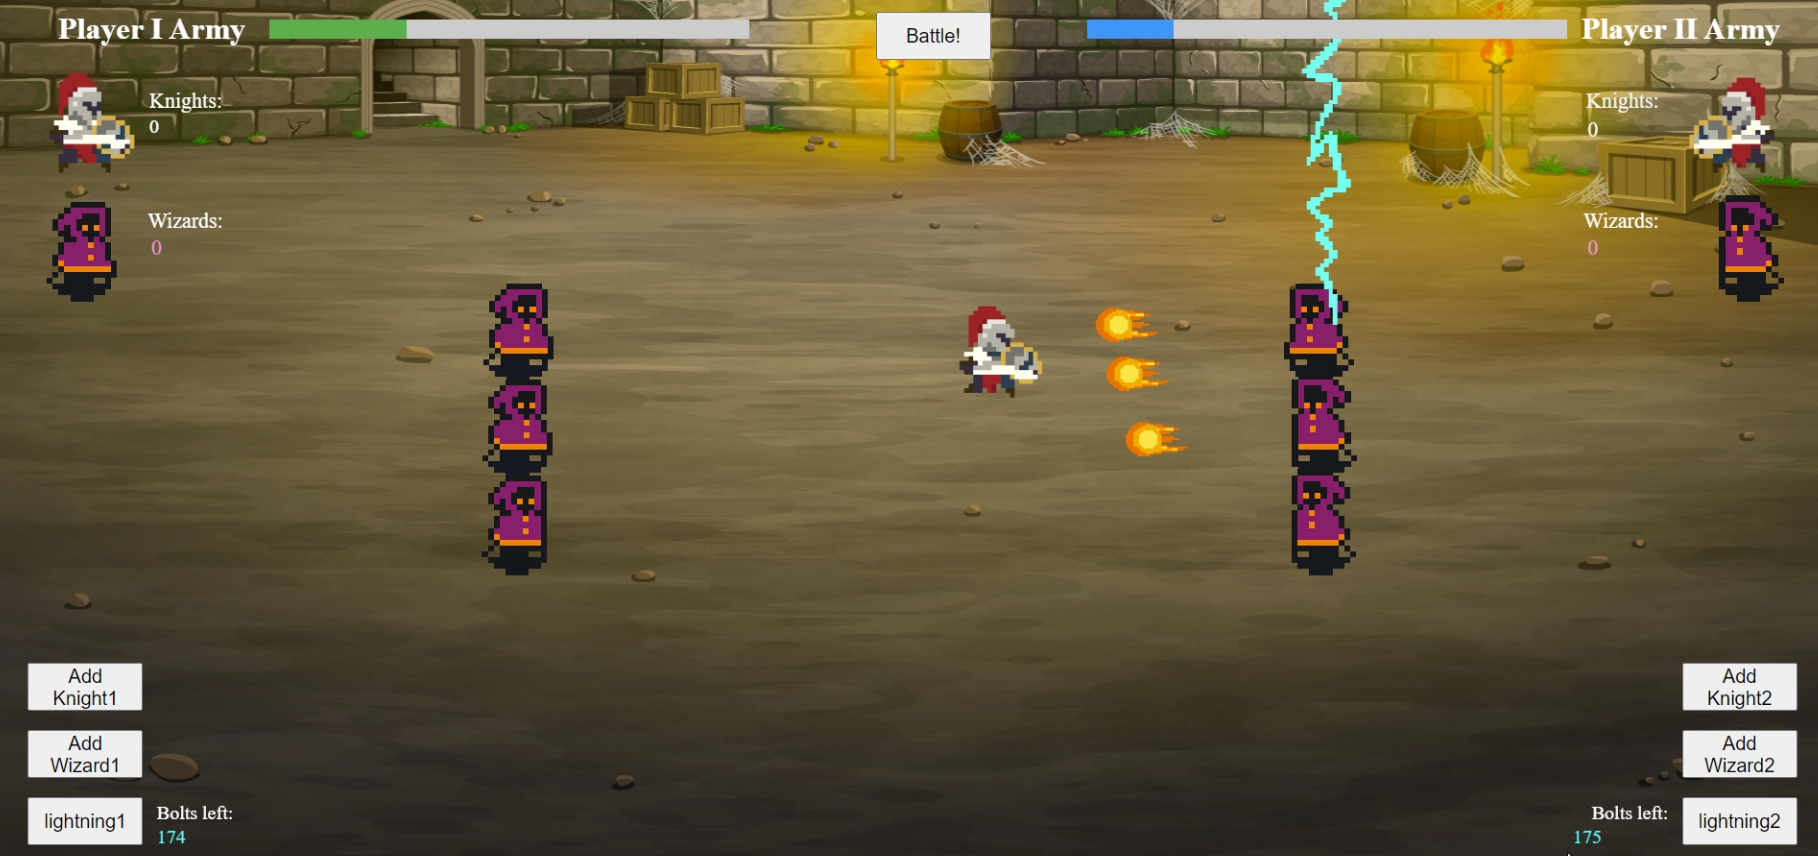
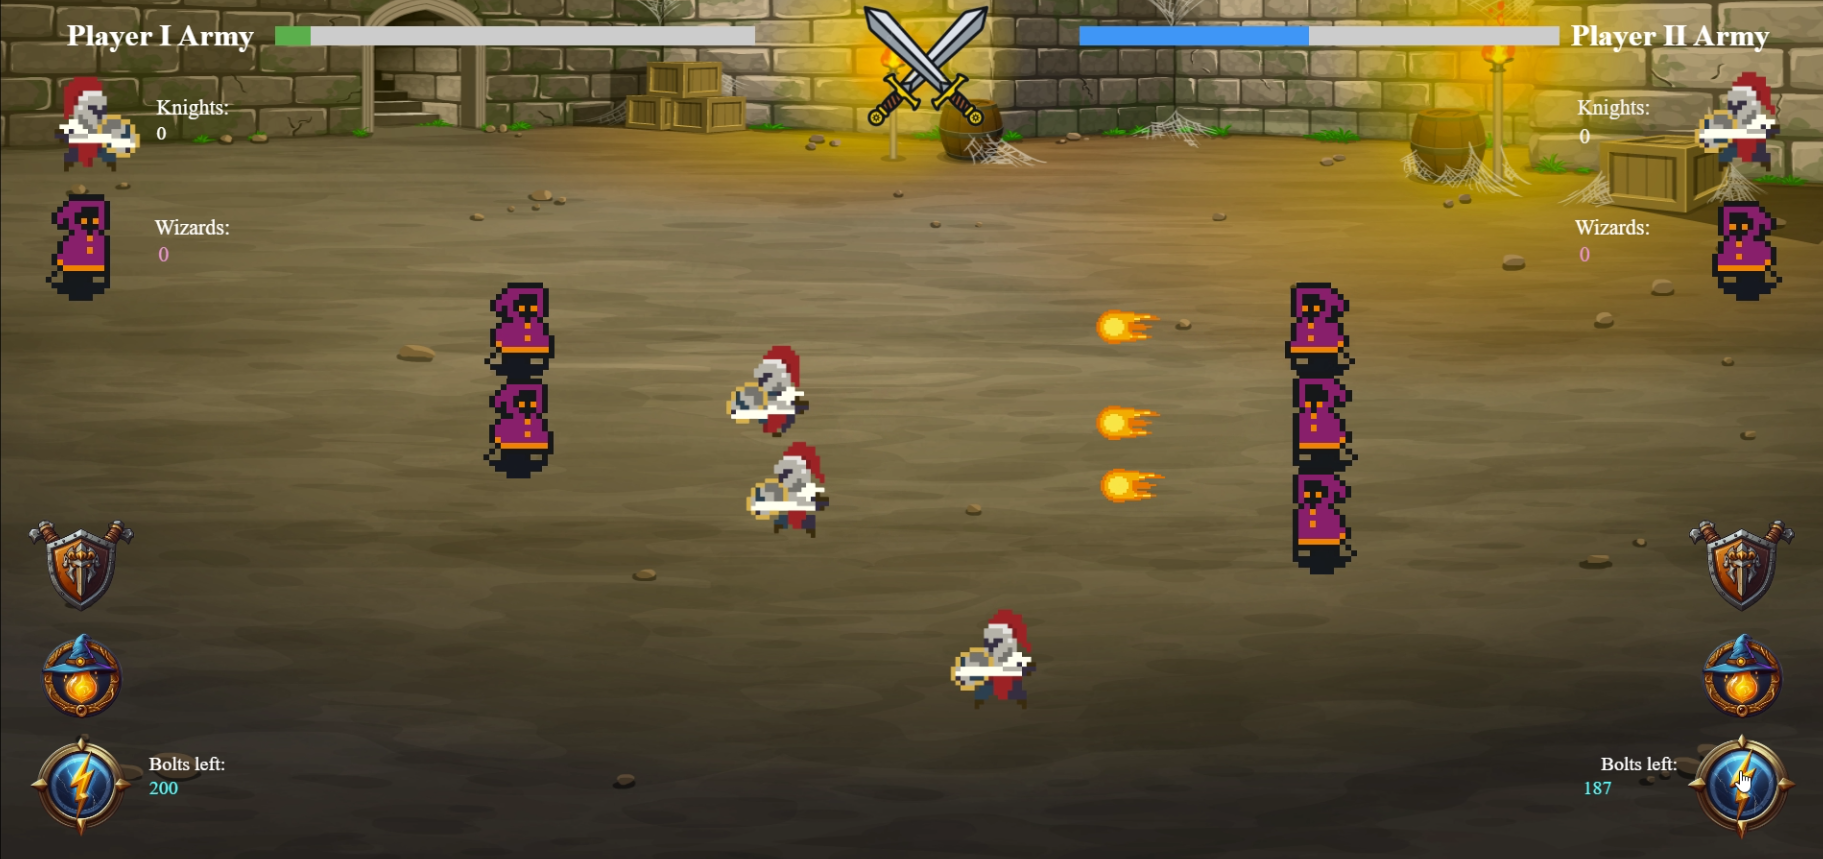
.

diff --git a/frontend/script.js b/frontend/script.js
@@ -23,7 +23,6 @@ let wizardsArrayP2 = [];
 
 let drawFireball = true;
 
-
 //fireworks initial location
 let rndX1 = Math.random() * (1800 - 100) + 100;
 let rndX2 = Math.random() * (1800 - 100) + 100;;
@@ -81,8 +80,8 @@ const lightningBoltP2 = new Lightning(
     1 //scale
 );
 
-let boltsLeftP1 = 2;
-let boltsLeftP2 = 2;
+let boltsLeftP1 = 200;
+let boltsLeftP2 = 200;
 
 let renderLightningBoltP1 = false;
 let renderLightningBoltP2 = false;

diff --git a/README.md b/README.md
@@ -6,9 +6,21 @@ In this turn-based combat game, each player commands an army and deploys a desir
 
 The game's controls are quite simple. Each player has 3 buttons:
 
+
 - Add Knight: adds a knight to the battling forces.
+
+<img src="https://github.com/Joniba1/War-Game/blob/main/frontend/assets/buttons/knight_button.png?raw=true" alt="Add Knight" width="100">
+
 - Add Wizard: adds a wizard to the battling forces.
-- Lightning: strikes the enemy forces with lightning bolts, 2 uses each round. 
+
+<img src="https://github.com/Joniba1/War-Game/blob/main/frontend/assets/buttons/wizard_button.png?raw=true" alt="Add Wizard" width="100">
+
+- Lightning: strikes the enemy forces with lightning bolts, 2 uses each round.
+
+<img src="https://github.com/Joniba1/War-Game/blob/main/frontend/assets/buttons/lightning_button.png?raw=true" alt="Lightning" width="100">
+
+
+
 
 Note that lightning bolts won't stack, so might as well use them each round.
 
